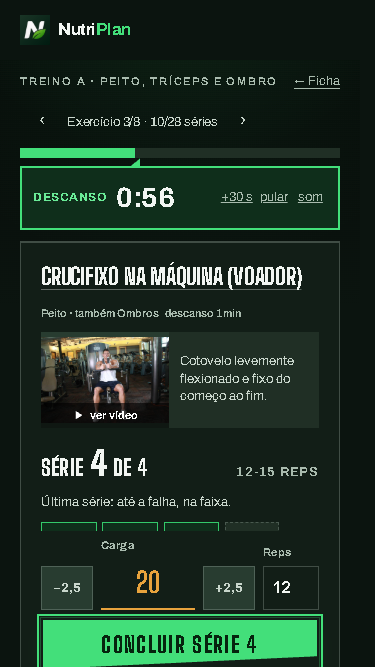
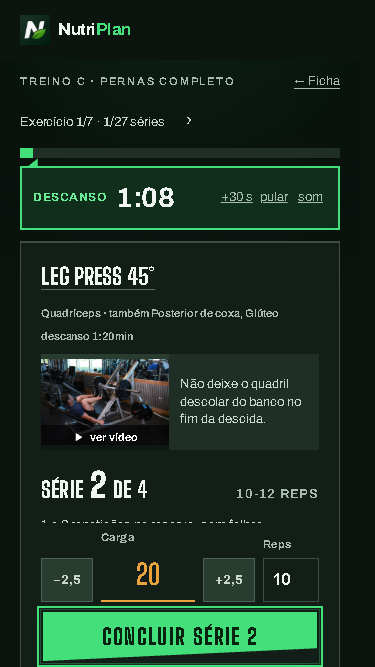
O teto do bloco fica ACIMA do conteúdo, e o selo de rede sai dele
Três falhas da suíte completa e um defeito meu, todos do mesmo commit.

O defeito meu, achado ao revisar o próprio diff e medido em seguida:
`max-height: var(--exec-bloco)` prende a CAIXA, não o conteúdo, e o
`overflow` é `visible`. Com 8.5rem (136 px) o conteúdo media 140 e
transbordava 4; com o selo "aguardando rede" ligado, 168 — transbordo de 32,
com o "Concluir série" fora da caixa e sem o fundo do bloco por baixo. Eu
tinha escrito que o token impedia "a próxima linha de conteúdo de devolver o
bloco aos 335 px sem ninguém perceber", e a linha nova passaria por cima sem
a caixa mudar de tamanho: guarda que não confere. O selo saiu do bloco — é
status, não controle, e mora com as pastilhas que ele comenta — e o teto foi
a 9rem, acima do conteúdo real. Medido depois: transbordo 0 nos quatro
casos, CTA dentro da caixa.

E a sonda media durante a rolagem suave que abrir o vídeo dispara: numa
execução o CTA saiu "coberto em qualquer posição", o que não se reproduziu
numa medição dirigida. Tempo fixo não é sincronia — ela espera o `scrollY`
parar de mudar, e com isso os 22 casos de conteúdo atrás do sticky são todos
alcançáveis rolando, zero em qualquer posição.

As três falhas da suíte não eram regressão de comportamento: uma dependia da
ORDEM DOS ATRIBUTOS da tag do formulário (o `id` novo entrou no meio da
string que o regex casava, e foi para o fim da tag), e duas congelavam o
estado que a decisão do dono muda — carga sozinha numa faixa e `60vh` no
[…]

diff --git a/templates/workouts/agora.html b/templates/workouts/agora.html
@@ -416,6 +416,13 @@
         (avaliação de 16/09/2026, B32). O que a pessoa toca e o que muda com
         o toque ficam juntos, e nada da caixa cobre a fileira.
       {% endcomment %}
+      {# O selo do toque offline (ver `pwa.js`): a série entra na pastilha e esta
+         nota aparece. Ele mora AQUI, e não dentro do bloco preso: é status, não
+         controle, e o bloco tem teto de altura — MEDIDO em 24/09/2026, com o
+         selo ligado o conteúdo passava 32px da caixa (`overflow: visible`) e o
+         "Concluir série" saía dela, sem o fundo do bloco por baixo. #}
+      <p class="aguardando-rede" data-aguardando-rede hidden role="status"></p>
+
       <div class="series__historico">
           {% comment %}
             Uma pastilha por série prescrita, e o texto dentro dela é a carga.
@@ -525,8 +532,6 @@
       {% endif %}
 
       <div class="agora__registro" id="registro" tabindex="-1">
-      {# O selo do toque offline (ver `pwa.js`): a série entra na pastilha e esta nota aparece. #}
-      <p class="aguardando-rede" data-aguardando-rede hidden role="status"></p>
 
       {# ---- Registrar a série: dois campos e um botão ---- #}
       {% if concluido and not extra %}
@@ -535,7 +540,8 @@
         <a class="btn-link" href="{% url 'workouts:now' %}?exercicio={{ atual.exercise.pk }}&amp;extra=1">Registrar uma série a mais</a>
       </p>
       {% else %}
-      <form class="registro registro--agora" id="registro-serie" method="post" data-sem-recarga
+      <form class="registro registro--agora" method="post" data-sem-recarga
+            id="registro-serie"
             action="{% url 'workouts:record_set' %}">
         {% csrf_token %}
         <input type="hidden" name="exercise_id" value="{{ atual.exercise.pk }}">

diff --git a/static/css/app.css b/static/css/app.css
@@ -486,7 +486,7 @@
      rolagem das pastilhas e o `max-height` do vídeo. Escrito em cada uma,
      o número divergiria na primeira vez que o bloco mudasse de altura, e
      o vídeo voltaria a ser coberto sem ninguém perceber. */
-  --exec-bloco: 8.5rem;
+  --exec-bloco: 9rem;
   --exec-descanso: 0rem;
   /* A CABEÇA DO EXERCÍCIO: nome (44px) + músculos (17px) + respiro. Medida a
      375 e a 390 em 24/09/2026 — do topo do `h1` ao topo da demonstração dão

diff --git a/workouts/tests.py b/workouts/tests.py
@@ -1122,13 +1122,20 @@ class ShortClipTests(TestCase):
         tarja o que economiza em recorte.
         """
         # Desde o poster (13/09/2026) a caixa do player é `.demo--aberta`:
-        # nasce no toque, dentro da faixa, presa a 60vh.
+        # nasce no toque, dentro da faixa. O TETO deixou de ser 60vh em
+        # 24/09/2026: `60vh` são 506px numa tela de 844 — um número sem
+        # relação com o espaço que sobra —, e o vídeo vertical saía com 391px
+        # numa faixa livre de 355, com o bloco preso cobrindo o pé dele. Hoje
+        # o teto É a faixa: `100dvh` menos cabeçalho, descanso, cabeça do
+        # exercício e bloco. A régua deste teste continua a mesma — a moldura
+        # tem caixa FIXA, e não uma que o conteúdo dita.
         css = (Path(settings.BASE_DIR) / "static" / "css" / "app.css").read_text(
             encoding="utf-8"
         )
         moldura = css.split(chr(10) + ".demo--aberta {", 1)[1].split("}", 1)[0]
         self.assertIn("aspect-ratio: 16 / 9", moldura)
-        self.assertIn("max-height: 60vh", moldura)
+        self.assertIn("max-height: calc(100dvh", moldura)
+        self.assertIn("var(--exec-bloco)", moldura)
 
         vertical = css.split(chr(10) + ".demo--aberta.demo--vertical {", 1)[1].split("}", 1)[0]
         self.assertIn("aspect-ratio: 3 / 4", vertical)
@@ -2258,10 +2265,16 @@ class LoadStepperTests(TestCase):
         self.assertNotIn("salvar", base)
         self.assertNotIn("timer", base)
 
+        # NA EXECUCAO, AS REPS DIVIDEM A LINHA DA CARGA (24/09/2026, decisao do
+        # dono). Eram tres faixas — carga, reps, CTA — e o bloco preso fechava
+        # em 335px, cobrindo o video aberto e, a 375x667, o proprio botao "ver
+        # video". Duas faixas sao ~70px que a faixa livre nao tinha. O nome
+        # deste teste continua valendo: a carga NAO fica espremida, ela leva a
+        # coluna elastica (`minmax(0, 1fr)`) e as reps a estreita.
         agora = regras.split(chr(10) + ".registro--agora {", 1)[1].split("}", 1)[0]
-        self.assertIn('"menos carga mais"', agora)
-        self.assertIn('"reps  reps  reps"', agora)
-        self.assertIn('"cta   cta   cta"', agora)
+        self.assertIn('"menos carga mais reps"', agora)
+        self.assertIn('"cta   cta   cta  cta"', agora)
+        self.assertIn("minmax(0, 1fr)", agora)
 
     def test_the_steps_are_a_touch_target(self):
         regra = self.css.split(chr(10) + ".registro__passo {", 1)[1].split("}", 1)[0]

diff --git a/workouts/test_execucao_legivel.py b/workouts/test_execucao_legivel.py
@@ -91,8 +91,16 @@ class OCabecalhoDaExecucaoTests(TestCase):
         bloco = _bloco(html, '<div class="agora__registro"', "</form>")
         self.assertNotIn('<ol class="series__lista">', bloco)
         self.assertNotIn('class="registro__nota"', bloco)
-        self.assertIn("data-aguardando-rede", bloco)
         self.assertIn('class="registro registro--agora"', bloco)
+        # O selo de "aguardando rede" saiu junto, em 24/09: ele é STATUS, e o
+        # bloco tem teto de altura — medido, com o selo ligado o conteúdo
+        # passava 32px da caixa e o "Concluir série" ficava fora dela.
+        self.assertNotIn("data-aguardando-rede", bloco)
+        self.assertLess(
+            html.index("data-aguardando-rede"),
+            html.index('<div class="agora__registro"'),
+            "o selo fica ACIMA do bloco, com as pastilhas que ele comenta",
+        )
         self.assertLess(
             html.index('<ol class="series__lista">'),
             html.index('<div class="agora__registro"'),

diff --git a/achados/missao-execucao-20260924.md b/achados/missao-execucao-20260924.md
@@ -17,13 +17,19 @@ até o topo do bloco preso de registro.
 
 | vista | faixa livre antes | depois | bloco antes → depois |
 |---|---:|---:|---|
-| 390×844 | 355 px | **495 px** | 335 → **136 px** |
-| 375×667 | 178 px | **471 px** | 335 → **136 px** |
-| 375×667 + descanso | **25 px** | **408 px** | 335 → **136 px** |
-| 430×932 | 355 px | **495 px** | 335 → **136 px** |
+| 390×844 | 355 px | **640 px** | 335 → **144 px** |
+| 375×667 | 178 px | **463 px** | 335 → **144 px** |
+| 375×667 + descanso | **25 px** | **400 px** | 335 → **144 px** |
+| 430×932 | 355 px | **717–728 px** | 335 → **144 px** |
 
-Com o vídeo aberto a 390×844 a faixa vai a 648 px e o player mede 391 —
-antes ele era cortado pelo bloco (`coberto por agora__registro`, medido).
+**A comparação é legítima mesmo com a ficha remontada no meio**, e isso é
+aritmética, não sorte: a faixa livre é `janela − bottom − bloco − cabeçalho
+− descanso`, e nada nela depende de QUAL exercício está na tela. Antes,
+`844 − 94 − 335 − 60 = 355`; hoje, `844 − 0 − 144 − 60 = 640`. Os dois
+valores medidos batem com a conta na casa do pixel.
+
+O player vertical mede 391 px e cabe; antes ele era cortado pelo bloco
+(`coberto por agora__registro`, medido).
 
 **A guarda do dono, nas 12 combinações + 4 com descanso `[EXECUTADA]`:**
 `.agora__nome`, `.agora__meta`, `.demo__abrir`, `.demo__cue` e o player
@@ -58,6 +64,29 @@ nenhuma combinação. `button.demo__abrir` é clicado sem `force`.
    um vídeo sem o nome por cima é vídeo de que exercício? A rota de leitura
    divide o mesmo script e não tem `.agora__topo`; lá o alvo continua sendo a
    demonstração.
+
+## Dois defeitos que eu mesmo introduzi, e a medição pegou
+
+Registrados porque a missão é sobre medir, e o instrumento também erra.
+
+1. **O bloco transbordava o próprio teto.** `max-height: var(--exec-bloco)`
+   prende a CAIXA, não o conteúdo, e o `overflow` é `visible`. Medido depois
+   da primeira correção: caixa 136 px com 140 de conteúdo (transborda 4), e
+   **168 com o selo "aguardando rede" ligado** (transborda 32) — o "Concluir
+   série" saía da caixa e ficava sem o fundo `--surface` por baixo. Eu tinha
+   escrito que o token "impede a próxima linha de conteúdo de devolver o
+   bloco aos 335 px sem ninguém perceber", e do jeito que estava a linha nova
+   passaria por cima sem a caixa mudar de tamanho: guarda que não confere.
+   Correções: o selo saiu do bloco (é STATUS, não controle) e o teto foi a
+   9rem = 144, acima do conteúdo real. Depois: **transbordo 0 nos quatro
+   casos, com o selo ligado, e o CTA dentro da caixa** `[EXECUTADA]`.
+2. **A sonda media durante uma rolagem animada.** Abrir o vídeo rola com
+   `behavior: smooth` e a espera era de 2 200 ms fixos; numa execução o CTA
+   saiu "coberto em qualquer posição", e a medição dirigida não reproduziu
+   (bloco preso em 523–667, CTA 610–663, `elementFromPoint` devolvendo o
+   próprio botão). Tempo fixo não é sincronia: a sonda agora espera o
+   `scrollY` PARAR de mudar. Depois disso, **zero "coberto em qualquer
+   posição" nas 12 combinações**.
 
 ## O achado que não estava na missão, e é de produção
 

diff --git a/CLAUDE.md b/CLAUDE.md
@@ -598,17 +598,29 @@ treino:
 | 375×667 | 178 px | músculos, **"ver vídeo"**, a dica e "Série N de M" |
 | 375×667 + descanso | **25 px** | tudo acima do bloco |
 
-Depois, com o mesmo instrumento: **495 px**, **471** e **408**. O bloco foi
-a 136 px.
+Depois, com o mesmo instrumento: **640 px**, **463** e **400** (e 728 a
+430×932). O bloco fechou em **144 px**.
+
+A faixa livre é aritmética da JANELA e do bloco preso, e não do exercício:
+`janela − bottom − bloco − cabeçalho − descanso`. Antes eram
+`844 − 94 − 335 − 60 = 355`; hoje, `844 − 0 − 144 − 60 = 640`. É isso que
+torna a comparação antes/depois legítima mesmo quando a ficha usada na
+medição não é a mesma.
 
 A resposta não é engolir conteúdo, é encolher o bloco e devolver o espaço:
 
 - **o preso só tem o que o dedo usa ENTRE duas séries** — uma linha de carga
   com as reps ao lado e "Concluir série". As pastilhas (histórico) e "Anotar
   algo desta série" (opcional, recolhido) voltaram ao fluxo, ACIMA dele, com
-  `scroll-margin-bottom` do tamanho do bloco. O teto é o token `--exec-bloco`,
-  e ele existe para a próxima linha de conteúdo não devolver os 335 px sem
-  ninguém perceber;
+  `scroll-margin-bottom` do tamanho do bloco. O teto é o token `--exec-bloco`
+  (9rem = 144 px), e ele existe para a próxima linha de conteúdo não devolver
+  os 335 px sem ninguém perceber. **O teto tem de ficar ACIMA do conteúdo
+  real**, e a primeira versão desta missão errou nisso: com 8.5rem (136) o
+  conteúdo media 140 e TRANSBORDAVA — `max-height` prende a caixa, não o
+  conteúdo, e com `overflow: visible` o "Concluir série" saía dela sem o
+  fundo do bloco por baixo. Com o selo "aguardando rede" ligado o transbordo
+  ia a 32 px; o selo saiu do bloco por isso — ele é STATUS, não controle, e
+  mora com as pastilhas que ele comenta;
 - **`bottom` responde à CLASSE DO SERVIDOR, nunca à largura**:
   `body:not(.tem-tabbar)` cola o bloco no rodapé. A regra vem DEPOIS da
   geral (mesma especificidade: vence a última) e a media query de 60rem
@@ -627,7 +639,10 @@ A resposta não é engolir conteúdo, é encolher o bloco e devolver o espaço:
 
 A régua é GEOMÉTRICA e mora em dois lugares: `scratchpad/medir_execucao.py`
 (`elementFromPoint` no centro de cada elemento, 3 larguras × 2 temas × vídeo
-aberto/fechado, mais o descanso) e o passo `video` do E2E noturno. "O
+aberto/fechado, mais o descanso) e o passo `video` do E2E noturno. **E ela
+espera a ROLAGEM ASSENTAR antes de medir**: abrir o vídeo rola com
+`behavior: smooth`, e com espera de tempo fixo o CTA saiu uma vez como
+"coberto em qualquer posição" — irreprodutível numa medição dirigida. "O
 elemento existe no DOM" não prova nada — o que prova é o ponto que o dedo
 acerta. E a sonda faz DUAS perguntas: coberto ali, ou coberto em qualquer
 rolagem? Conteúdo do fluxo que cai atrás de um `sticky` só naquela posição é
